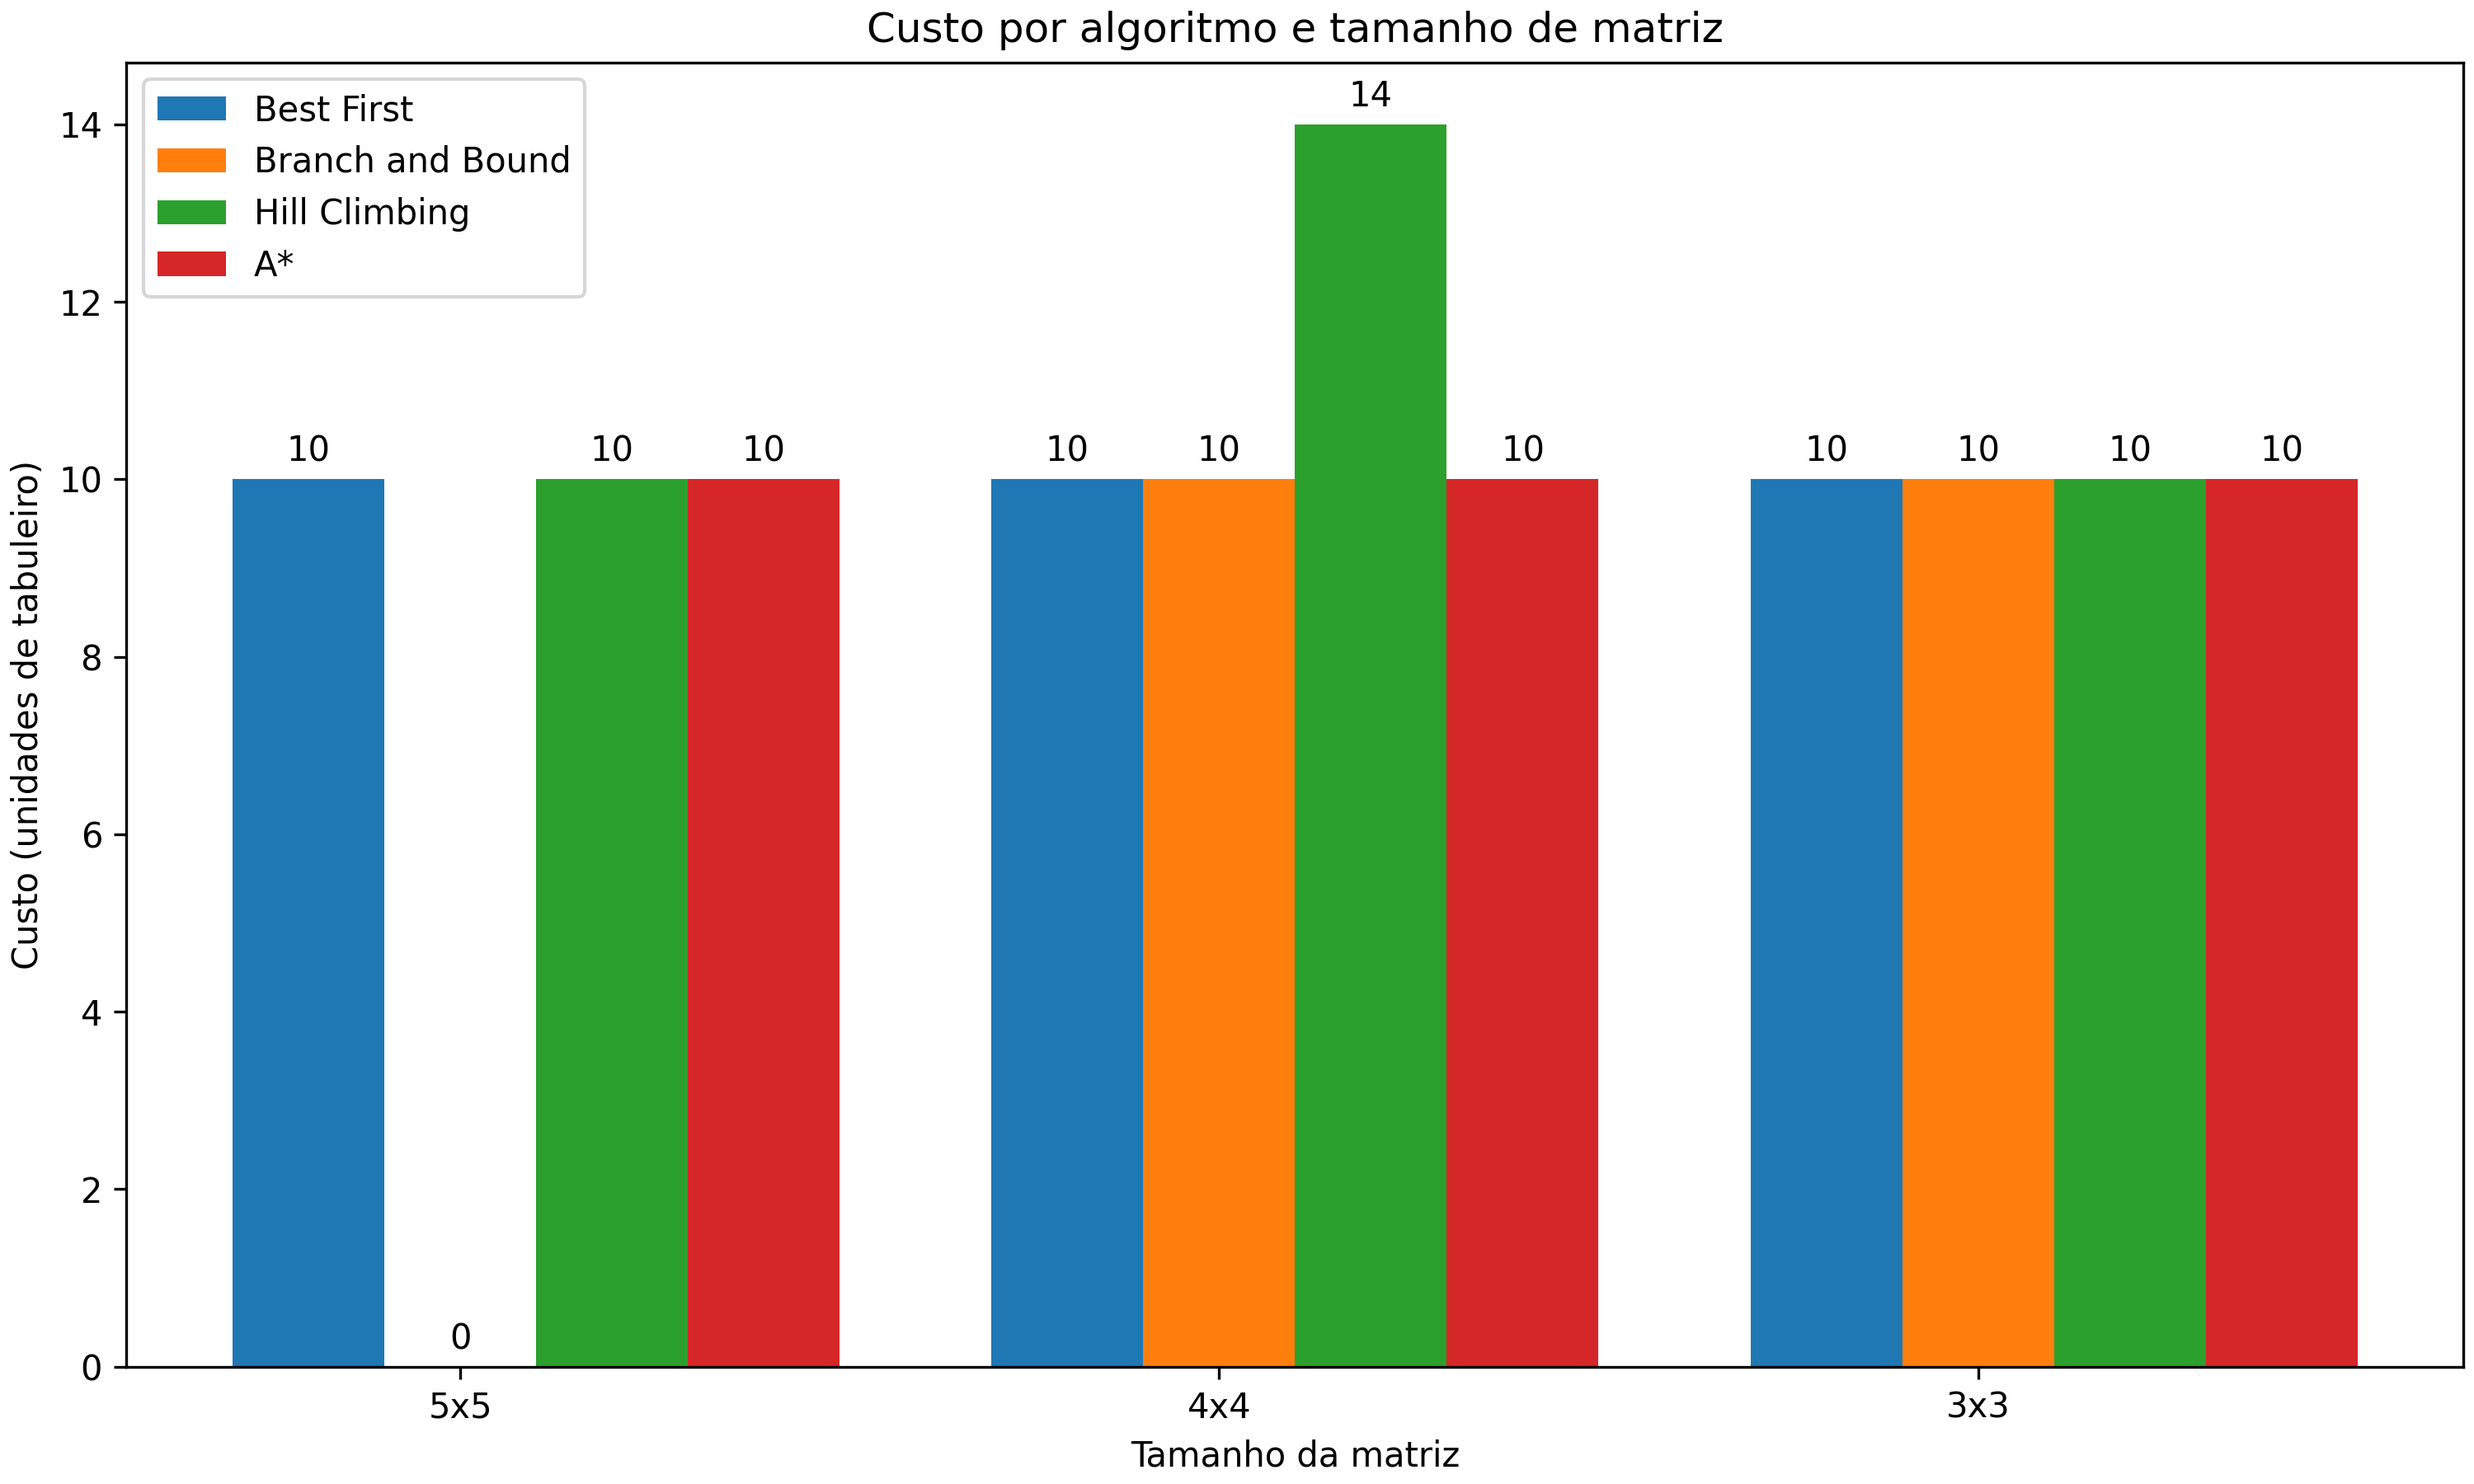
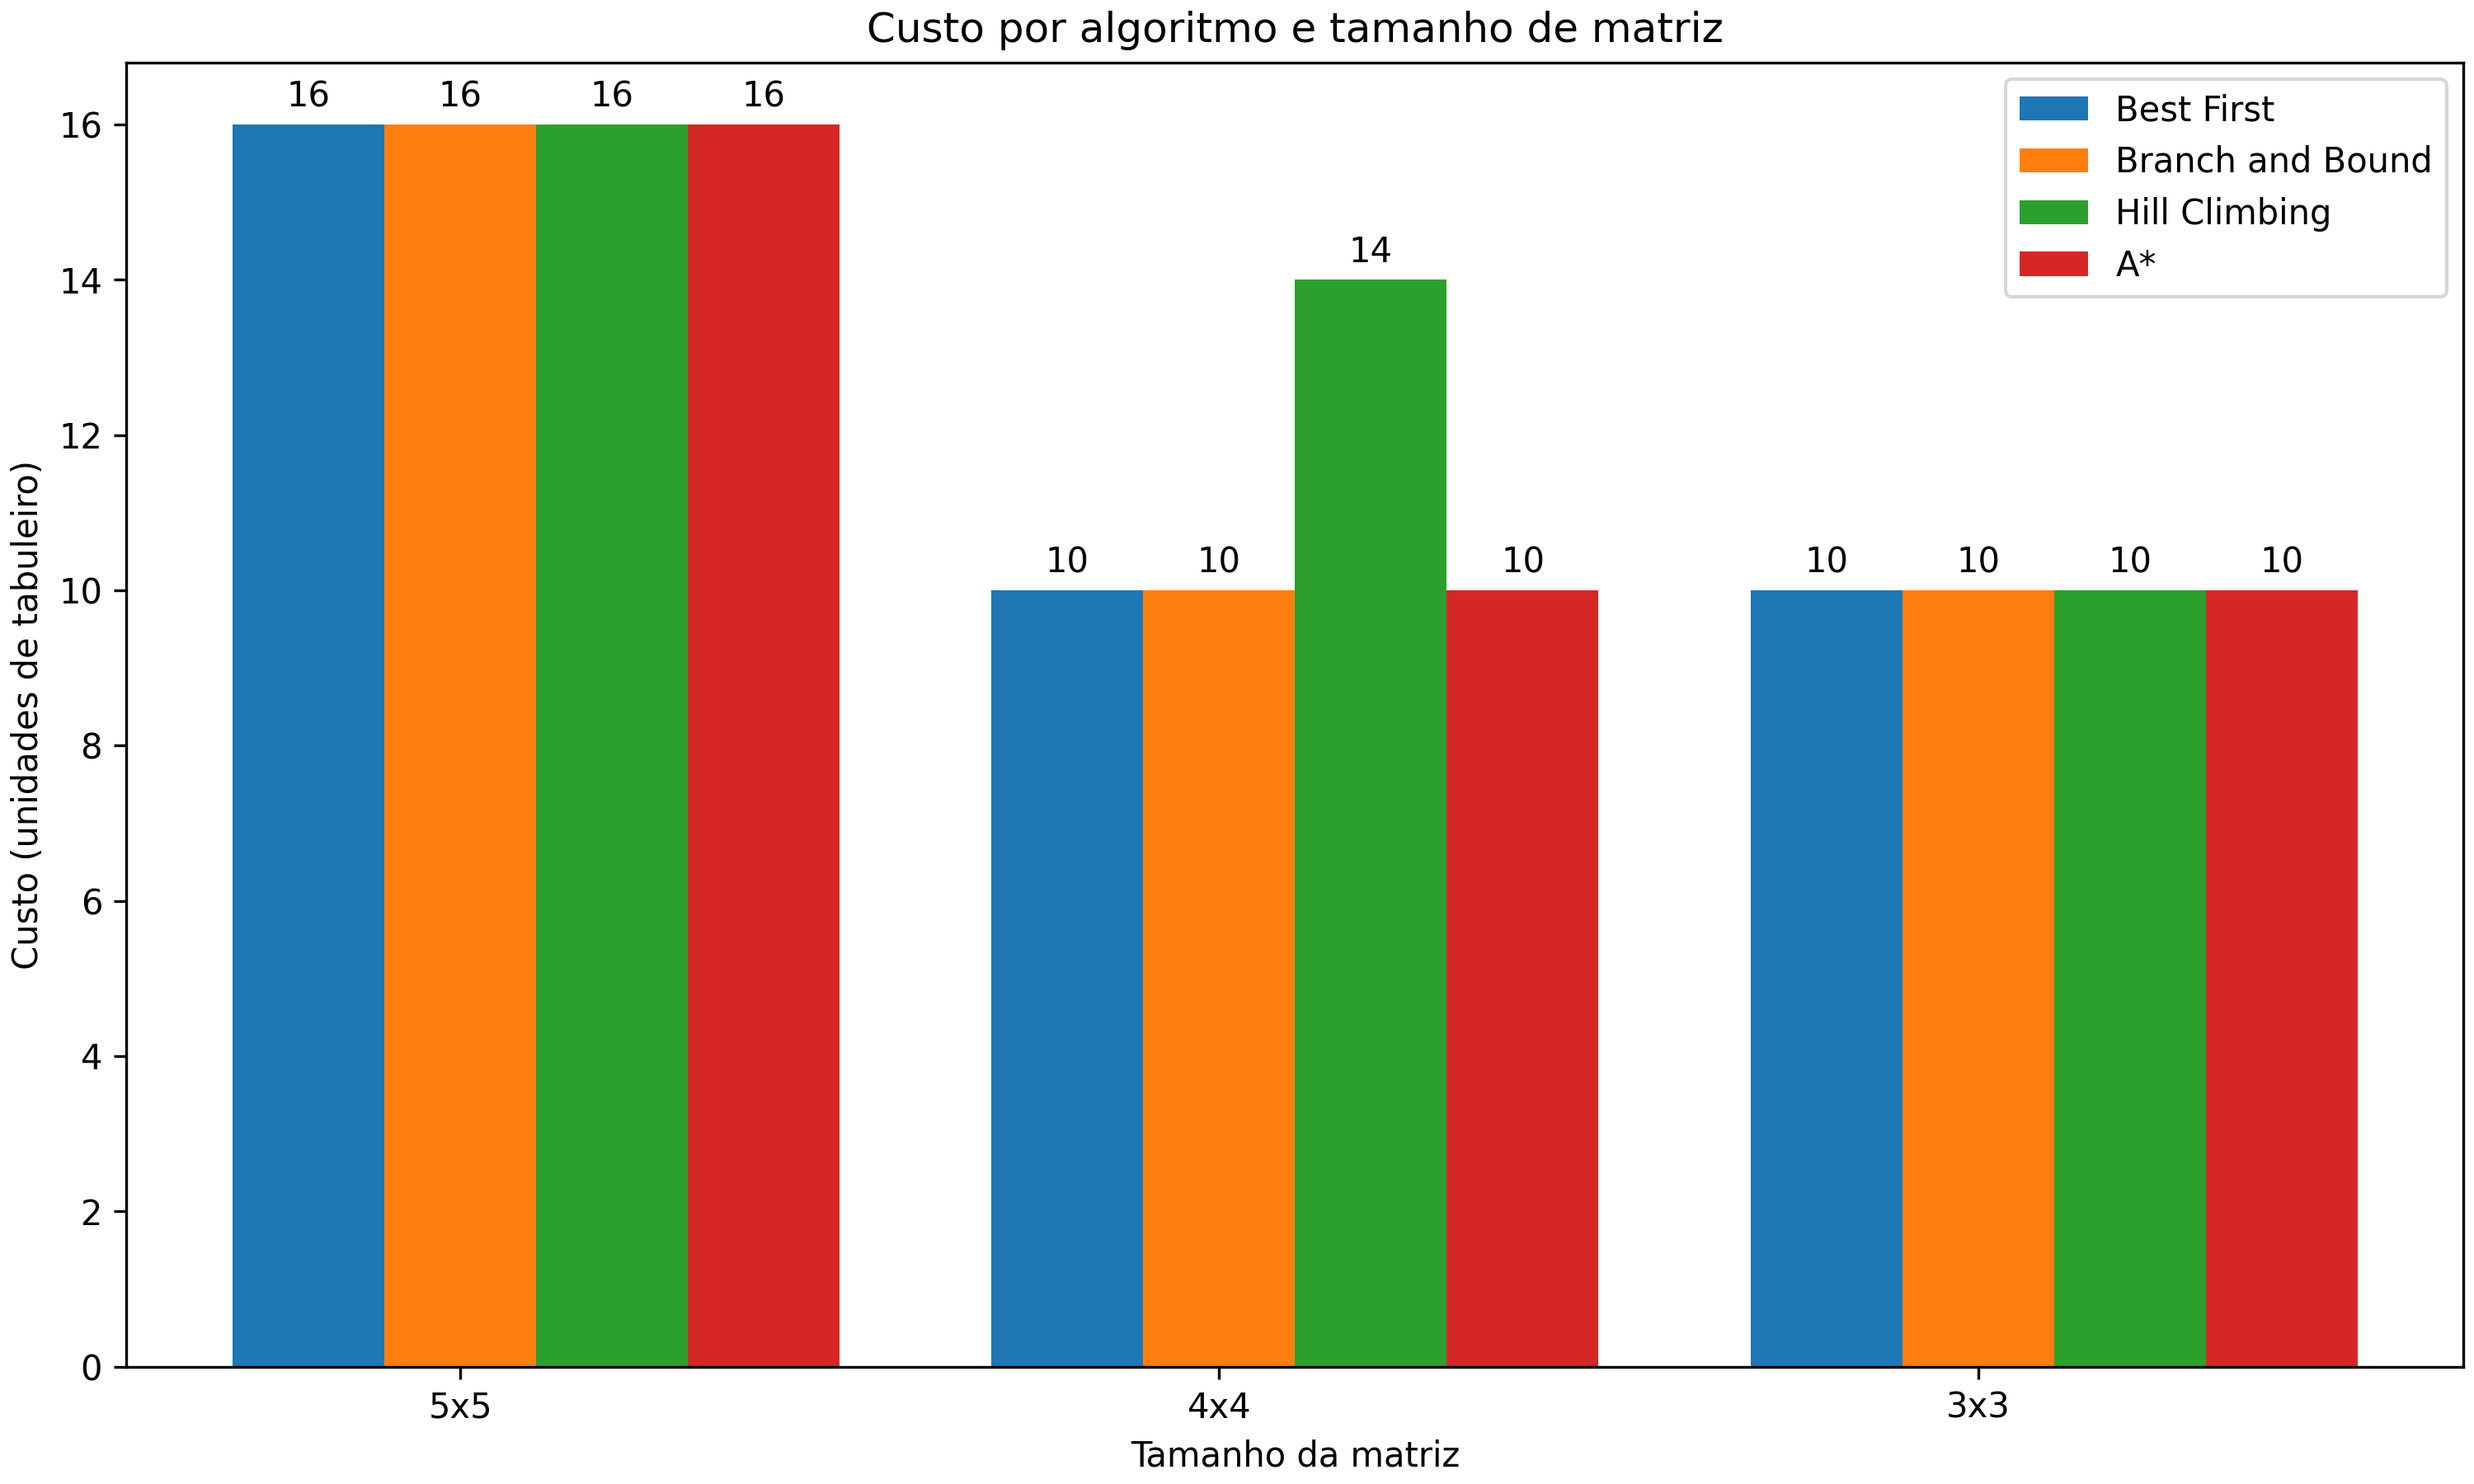
Update

diff --git a/src/python/gerar_grafico.py b/src/python/gerar_grafico.py
@@ -23,12 +23,12 @@ def generate_grouped_bar_chart(eixo_x: List[str], info: Dict[str, List[str]], ou
     ax.set_xlabel(x_label)
     ax.set_title(title)
     ax.set_xticks(x + width, eixo_x)
-    ax.legend(loc='upper left')
+    ax.legend(loc='upper right')
     # ax.set_ylim(0, 250)
     fig = plt.gcf()
     fig.set_size_inches(10, 6)  # Especificar as dimensões desejadas em polegadas
     plt.savefig(output_filename, dpi=300)
-    plt.show()
+    # plt.show()
 
 def load_data(input_filename: str) -> Tuple[List[str], Dict[str, List[str]]]:
     data = pd.read_csv(input_filename)
@@ -43,7 +43,6 @@ def load_data(input_filename: str) -> Tuple[List[str], Dict[str, List[str]]]:
 
 
 if __name__ == '__main__':
-    # Gráfico de custo
     if len(sys.argv) == 3:
         input_filename = sys.argv[1]
         output_filename = sys.argv[2]
@@ -51,13 +50,12 @@ if __name__ == '__main__':
         input_filename = './src/python/data.csv'
         output_filename = './resultados/cost_graph.png'
 
+    # Gráfico de custo
     x, info = load_data(input_filename)
     generate_grouped_bar_chart(x, info, output_filename, 
                                'Tamanho da matriz', 'Custo (unidades de tabuleiro)', 'Custo por algoritmo e tamanho de matriz')
 
-    x, info = load_data('time.csv')
-    generate_grouped_bar_chart(x, info, './resultados/time_graph.png', 
-                               'Tamanho da matriz', 'Tempo (segundos)', 'Tempo de execução por algoritmo e tamanho de matriz')
-
-
     # Gráfico de tempo de execução
+    x, info = load_data('./src/python/time.csv')
+    generate_grouped_bar_chart(x, info, './resultados/time_graph.png', 
+                               'Tamanho da matriz', 'Tempo (ms)', 'Tempo de execução por algoritmo e tamanho de matriz')

diff --git a/src/python/gerar_tabuleiro.py b/src/python/gerar_tabuleiro.py
@@ -109,6 +109,7 @@ def persist_facts(matrix_fact: List[List[str]], obstacles_list: List[str], dirt_
         file.write('%% sujeiras\n')
         for dirt in dirt_list:
             file.write(dirt + '\n')
+        file.write(':- dynamic(sujeira/1).\n')
 
     print('Base de fatos salva em: ', filename)
 
